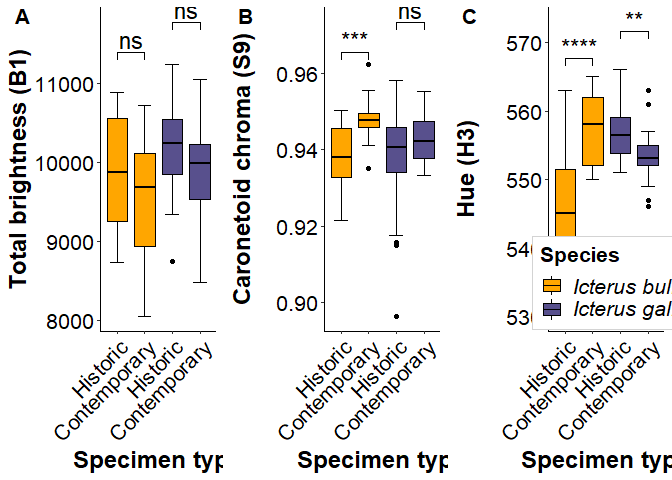
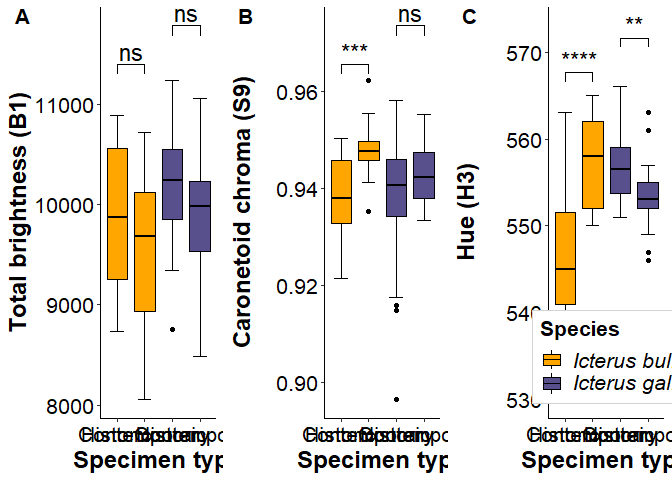
Edits for submission

diff --git a/mainscript.md b/mainscript.md
@@ -1,6 +1,7 @@
 Main code
 ================
-6/18/2021
+Young Ha Suh, <ys757@cornell.edu>
+3/23/2021
 
 -   [Load libraries](#load-libraries)
 -   [Import data](#import-data)
@@ -59,17 +60,20 @@ is measured 3 times; i.e. 15 measurements per specimen.
 Using `pavo` as main, rest as data manipulation & organization
 
 ``` r
-library(pavo)
+# data tidying
 library(data.table)
 library(readxl)
 library(tidyverse)
 library(stringr)
 library(knitr)
 library(car)
+# figures
 library(ggpubr)
 library(ggpmisc)
-library(lme4)
 library(cowplot)
+#analyses
+library(pavo)
+library(lme4)
 ```
 
 Set ggplot themes for figures
@@ -923,7 +927,7 @@ b1orn <- ggplot(compare, aes(x = cat, y = B1, fill = sp)) +
   scale_x_discrete(name = "Specimen type", 
                    limits = c("Bull_hist", "Bull_mod", "Balt_hist", "Balt_mod"), 
                    labels = c("Historic", "Contemporary","Historic", "Contemporary")) +
-  theme(legend.text.align = 0, axis.text.x = element_text(angle = 45, hjust=1))
+  theme(legend.text.align = 0)
 
 
 # black
@@ -971,7 +975,7 @@ s9orn <- ggplot(compare, aes(x = cat, y = S9, fill = sp)) +
   scale_x_discrete(name = "Specimen type", 
                    limits = c("Bull_hist", "Bull_mod", "Balt_hist", "Balt_mod"), 
                    labels = c("Historic", "Contemporary","Historic", "Contemporary")) +
-  theme(legend.text.align = 0, axis.text.x = element_text(angle = 45, hjust=1))
+  theme(legend.text.align = 0)
 s9orn
 ```
 
@@ -996,8 +1000,7 @@ h3orn <- ggplot(compare, aes(x = cat, y = H3, fill = sp)) +
                    limits = c("Bull_hist", "Bull_mod", "Balt_hist", "Balt_mod"), 
                    labels = c("Historic", "Contemporary","Historic", "Contemporary")) +
   theme(legend.text.align = 0, legend.position = c(0.7, 0.15), 
-        legend.background = element_rect(linetype="solid", colour ="lightgray"), 
-        axis.text.x = element_text(angle = 45, hjust=1)) +
+        legend.background = element_rect(linetype="solid", colour ="lightgray")) +
   ylim(530,573)
 
 h3orn 
@@ -1266,7 +1269,7 @@ plot_grid(pg, leg, rel_widths = c(6, 0.8))
 ![](mainscript_files/figure-gfm/Merge%20all%20plots-1.png)<!-- -->
 
 ``` r
-ggsave("Figure5.png", plot=last_plot(), width=400, height=125, units="mm", dpi=600, scale=T)
+ggsave("Figure5.png", plot=last_plot(), width=600, height=225, units="mm", dpi=600, scale=T)
 ```
 
 <br>
@@ -1310,129 +1313,16 @@ summary(vismod.orn)
     ##  Max.   :0.3500
 
 ``` r
-vismod.orn
+head(vismod.orn)
 ```
 
-    ##                            u          s         m         l       lum
-    ## BA28299_orn1      0.02796984 0.04674980 0.3066663 0.5569209 0.3209003
-    ## BA28300_orn1      0.02791030 0.05063279 0.2778269 0.5269098 0.2993215
-    ## BA28301_orn1      0.02047566 0.02977987 0.2449819 0.5119533 0.2749199
-    ## BA28302_orn1      0.02362612 0.03791154 0.2180511 0.5373897 0.2714292
-    ## BA28304_orn1      0.02695147 0.04102449 0.2722164 0.5602838 0.3044113
-    ## BA28305_orn1      0.01944704 0.02842880 0.2796832 0.5564919 0.3036157
-    ## BA28306_orn1      0.02371610 0.03918074 0.2472169 0.5309015 0.2836275
-    ## BA28308_orn1      0.02527853 0.03957233 0.2694793 0.5531644 0.3011530
-    ## BA28415_orn1      0.03579648 0.06528205 0.3107282 0.5487583 0.3244227
-    ## BA28416_orn1      0.01557564 0.02712400 0.2576541 0.5151815 0.2801811
-    ## BA28417_orn1      0.02010927 0.03121793 0.2672744 0.5656235 0.3011202
-    ## BA28420_orn1      0.02201513 0.04070105 0.2964101 0.5378059 0.3085718
-    ## BA28467_orn1      0.01959268 0.03067119 0.2318922 0.4716554 0.2571397
-    ## BA28468_orn1      0.02381147 0.03532815 0.2503082 0.5272249 0.2835080
-    ## BA28469_orn1      0.01945881 0.03145711 0.2319476 0.5219797 0.2725489
-    ## BA28470_orn1      0.02428966 0.03680706 0.2646369 0.5850099 0.3075707
-    ## BA28471_orn1      0.03064509 0.05256067 0.3036660 0.5358270 0.3142068
-    ## BA28472_orn1      0.02367486 0.03449798 0.2798117 0.5185254 0.2937093
-    ## BA28473_orn1      0.02934752 0.05103340 0.2838316 0.5132094 0.2976653
-    ## BA28474_orn1      0.02728949 0.03787244 0.3071625 0.5421160 0.3144608
-    ## BA56813_orn1      0.01980752 0.03580421 0.2765126 0.5127555 0.2900836
-    ## BA56814_orn1      0.02135699 0.03461725 0.2414293 0.4376250 0.2514180
-    ## BA56825_orn1      0.02132392 0.03216299 0.2438876 0.5653121 0.2911940
-    ## BA56830_orn1      0.02538225 0.03488949 0.2896194 0.5561781 0.3101500
-    ## BA56832_orn1      0.02658829 0.03795292 0.2281457 0.5365369 0.2770920
-    ## BA56852_orn1      0.03062735 0.03624071 0.3462528 0.5637404 0.3380908
-    ## BA57662_orn1      0.02507860 0.03284063 0.2250493 0.4637112 0.2528743
-    ## BA57663_orn1      0.02750858 0.03559450 0.2806929 0.4935013 0.2874941
-    ## BA57710_orn1      0.02540106 0.03737057 0.2950618 0.5325031 0.3057626
-    ## BA57712_orn1      0.02941402 0.03906280 0.2837596 0.5061864 0.2931080
-    ## BA57715_orn1      0.02377362 0.02997888 0.2615390 0.4860206 0.2748716
-    ## BA57730_orn1      0.02727192 0.03496634 0.2708887 0.5307083 0.2945731
-    ## BA57748_orn1      0.02768425 0.03333430 0.3024750 0.5231693 0.3053599
-    ## BA57750_orn1      0.02127258 0.03104613 0.2712507 0.5030108 0.2844704
-    ## BA57757_orn1      0.02638886 0.03254863 0.2856518 0.5680426 0.3116285
-    ## BA57758_orn1      0.02019642 0.02667294 0.2718507 0.5050631 0.2843643
-    ## BA57890_orn1      0.03029396 0.04206295 0.3251377 0.5301327 0.3196969
-    ## BA57965_orn1      0.02317017 0.03126176 0.2660184 0.5199092 0.2871160
-    ## BA58010_orn1      0.02652631 0.03844544 0.2689497 0.5274507 0.2931536
-    ## BU26842_orn1      0.02055550 0.03176553 0.2637964 0.4581977 0.2680033
-    ## BU26843_orn1      0.02989526 0.04480868 0.3178904 0.5443314 0.3221412
-    ## BU26844_orn1      0.02435952 0.03860934 0.3601839 0.5077396 0.3265739
-    ## BU26845_orn1      0.01944343 0.03235683 0.3358882 0.4737425 0.3038151
-    ## BU26846_orn1      0.02563547 0.03621155 0.3780429 0.5411545 0.3444389
-    ## BU26847_orn1      0.02577437 0.04136297 0.2521002 0.5245020 0.2837131
-    ## BU26848_orn1      0.02162370 0.03608451 0.3571682 0.5397303 0.3342563
-    ## BU26849_orn1      0.02568997 0.03761574 0.2944109 0.5001620 0.2956900
-    ## BU26850_orn1      0.03394973 0.04731088 0.3473471 0.5277976 0.3309739
-    ## BU26851_orn1      0.02352189 0.03211698 0.2532990 0.4863788 0.2712093
-    ## BU26932_orn1      0.03214428 0.04759147 0.3707046 0.4942539 0.3303755
-    ## BU26938_orn1      0.02392425 0.03915949 0.2868571 0.4993519 0.2910095
-    ## BU26939_orn1      0.02151170 0.03595544 0.3013883 0.4858828 0.2931236
-    ## BU26940_orn1      0.02629528 0.03735117 0.3575595 0.5071788 0.3251479
-    ## BU26941_orn1      0.02814080 0.04091099 0.3254890 0.4843398 0.3053804
-    ## BU26942_orn1      0.02226399 0.03744872 0.2746045 0.4696085 0.2771699
-    ## BU26943_orn1      0.01613791 0.02925685 0.2616571 0.4869706 0.2734294
-    ## BU26944_orn1      0.02070246 0.03074954 0.2156081 0.4695440 0.2476809
-    ## BU26945_orn1      0.03031754 0.05168099 0.3564381 0.5269601 0.3347009
-    ## BU26946_orn1      0.02458785 0.03551942 0.2958086 0.4544581 0.2812017
-    ## BU56854_orn1      0.02625576 0.03139326 0.2834424 0.5017296 0.2897527
-    ## BU57614_orn1      0.02346643 0.02788794 0.2507426 0.4977058 0.2733923
-    ## BU57647_orn1      0.03070174 0.03894837 0.2870074 0.5143249 0.2965901
-    ## BU57648_orn1      0.02948198 0.03324336 0.2237126 0.5258957 0.2686905
-    ## BU57649_orn1      0.01794243 0.02552674 0.2037971 0.4825542 0.2443615
-    ## BU57650_orn1      0.02889067 0.03501779 0.2516752 0.5519882 0.2902955
-    ## BU57652_orn1      0.02904048 0.03195839 0.2606568 0.5600177 0.2958629
-    ## BU57653_orn1      0.02612852 0.03056790 0.2548113 0.5423787 0.2883962
-    ## BU57737_orn1      0.01691286 0.02198793 0.2281638 0.5045853 0.2627774
-    ## BU57994_orn1      0.02706600 0.03632875 0.3174218 0.5564887 0.3225371
-    ## BU58002_orn1      0.02626447 0.03181247 0.2303896 0.5178631 0.2687958
-    ## BU58119_orn1      0.02877483 0.03523447 0.2846726 0.5111248 0.2940739
-    ## BU58127_orn1      0.02575816 0.02955226 0.2306500 0.4873741 0.2606179
-    ## BU58129_orn1      0.02629740 0.03188247 0.2766591 0.5195644 0.2920888
-    ## BU58130_orn1      0.02233111 0.02752743 0.2059329 0.4768095 0.2458992
-    ## BU58131_orn1      0.02567438 0.02807080 0.2227788 0.4450964 0.2442773
-    ## BU58137_orn1      0.02466369 0.02770546 0.2433841 0.4487684 0.2549564
-    ## BU58138_orn1      0.01557441 0.02727219 0.1992891 0.4416505 0.2305895
-    ## BU58140_orn1      0.02743730 0.03526477 0.3004666 0.5173591 0.3026909
-    ## BU58141_orn1      0.02689312 0.03195691 0.2770678 0.4872802 0.2814893
-    ## MVZ_BU123442_orn1 0.01850014 0.03790981 0.2342114 0.4526627 0.2534928
-    ## MVZ_BU136690_orn1 0.03248108 0.04643590 0.3519030 0.5838730 0.3500432
-    ## MVZ_BU147393_orn1 0.02260356 0.04065882 0.3099909 0.4729095 0.2945274
-    ## MVZ_BU147395_orn1 0.02088717 0.03764275 0.2888074 0.4718032 0.2834727
-    ## MVZ_BU163024_orn1 0.02372045 0.03767827 0.3152666 0.5562934 0.3219474
-    ## MVZ_BU163026_orn1 0.01721616 0.02856034 0.2423307 0.4928231 0.2676124
-    ## MVZ_BU165823_orn1 0.01991413 0.02993584 0.2035702 0.4637613 0.2400153
-    ## MVZ_BU26842_orn1  0.02247029 0.04033016 0.3029093 0.4766891 0.2922266
-    ## MVZ_BU28167_orn1  0.02377104 0.03852595 0.3560773 0.5252397 0.3307880
-    ## MVZ_BU34099_orn1  0.02184989 0.03161251 0.2119021 0.4434056 0.2394742
-    ## MVZ_BU5182_orn1   0.01759971 0.03474942 0.2375780 0.4310673 0.2476265
-    ## MVZ_BU57658_orn1  0.02180008 0.03620415 0.3137255 0.5226315 0.3102457
-    ## MVZ_BU62167_orn1  0.02100451 0.03482360 0.2987441 0.5570055 0.3145327
-    ## MVZ_BU65311_orn1  0.01747584 0.04138248 0.2875195 0.4889242 0.2878055
-    ## MVZ_BU78245_orn1  0.01941314 0.03187771 0.2096335 0.3884183 0.2216850
-    ## MVZ_BU88648_orn1  0.01615934 0.03311181 0.1942208 0.4097068 0.2201658
-    ## MVZ_BU8940_orn1   0.02390707 0.05077865 0.3009464 0.4759848 0.2938056
-    ## MVZ_BU8942_orn1   0.02449743 0.04173230 0.2896418 0.5165135 0.2992283
-    ## MVZ_BU8943_orn1   0.03098834 0.06000429 0.3174131 0.4953682 0.3099498
-    ## MVZ_BU95633_orn1  0.01959981 0.03581566 0.3200783 0.4730495 0.2969712
-    ## UWBM104549_orn1   0.02840090 0.05135142 0.3244437 0.5006347 0.3119781
-    ## UWBM109429_orn1   0.02362714 0.04624779 0.3174980 0.5369759 0.3177555
-    ## UWBM122228_orn1   0.02377313 0.04128109 0.2831305 0.4789006 0.2836170
-    ## UWBM122453_orn1   0.02967937 0.05754714 0.3721397 0.5165774 0.3410603
-    ## UWBM122617_orn1   0.02230079 0.04218715 0.2955651 0.4989486 0.2952310
-    ## UWBM37214_orn1    0.02045407 0.03804626 0.2830870 0.4652819 0.2788188
-    ## UWBM41002_orn1    0.02618356 0.04387880 0.3153967 0.4844875 0.3014775
-    ## UWBM42201_orn1    0.02611214 0.04804540 0.2927911 0.4300692 0.2751286
-    ## UWBM48344_orn1    0.02162147 0.04560328 0.2668323 0.4415944 0.2654217
-    ## UWBM50074_orn1    0.02445273 0.04829231 0.3592680 0.5286412 0.3354275
-    ## UWBM53665_orn1    0.02440393 0.04047545 0.3585366 0.5439974 0.3379698
-    ## UWBM55942_orn1    0.02890605 0.04650070 0.3088966 0.4996235 0.3036636
-    ## UWBM55954_orn1    0.02421119 0.04595139 0.2838704 0.4700851 0.2819990
-    ## UWBM59056_orn1    0.02399482 0.04627630 0.3470955 0.4847319 0.3166015
-    ## UWBM59058_orn1    0.02686351 0.05231756 0.3230026 0.4799697 0.3050020
-    ## UWBM59333_orn1    0.02652147 0.04683603 0.3274903 0.5076623 0.3142630
-    ## UWBM79812_orn1    0.02756083 0.05705688 0.2823355 0.4629213 0.2820442
-    ## UWBM86267_orn1    0.02172128 0.03452629 0.2378279 0.5288757 0.2742328
-    ## UWBM88853_orn1    0.02362812 0.04208856 0.3469151 0.4961049 0.3189048
-    ## UWBM91361_orn1    0.03030422 0.04557543 0.2605167 0.5012688 0.2805080
+    ##                       u          s         m         l       lum
+    ## BA28299_orn1 0.02796984 0.04674980 0.3066663 0.5569209 0.3209003
+    ## BA28300_orn1 0.02791030 0.05063279 0.2778269 0.5269098 0.2993215
+    ## BA28301_orn1 0.02047566 0.02977987 0.2449819 0.5119533 0.2749199
+    ## BA28302_orn1 0.02362612 0.03791154 0.2180511 0.5373897 0.2714292
+    ## BA28304_orn1 0.02695147 0.04102449 0.2722164 0.5602838 0.3044113
+    ## BA28305_orn1 0.01944704 0.02842880 0.2796832 0.5564919 0.3036157
 
 ``` r
 # Get color distances
